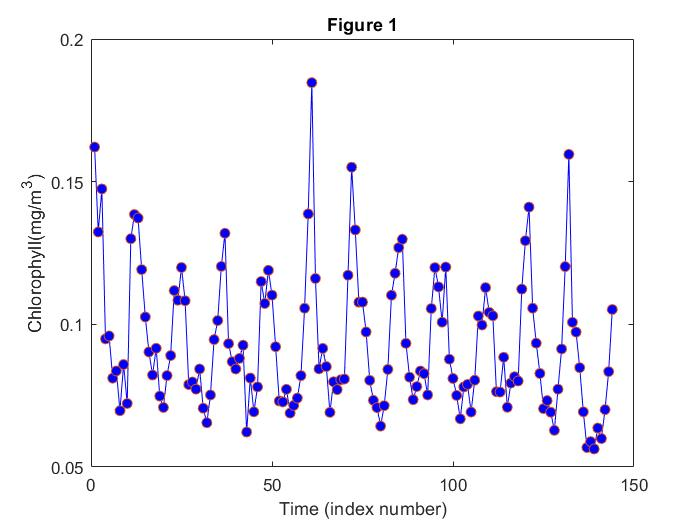
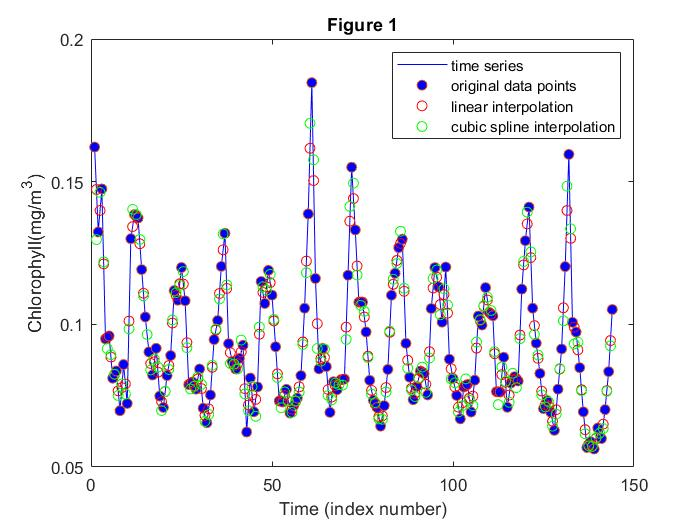
fixed discrepancy that printed interpolated points on different figure.

diff --git a/final_pt2/finalpt2_script.m b/final_pt2/finalpt2_script.m
@@ -16,43 +16,37 @@ plot(t,y,'o','markerfacecolor','b');
 
 
 %estimate chlorophyll at intermediate times by linear interploation and
-%plot
-figure;
+%plot using red open circles
 ti=1.5:1:143.5;
 yi=interp1(t,y,ti);
-plot(ti,yi,'o','markerfacecolor','r');
-xlabel('Time (index number)');
-ylabel('Chlorophyll(mg/m^3)');
-title('Figure 2');
+hold on;
+scatter(ti,yi,'r');
 
 %repeat using spline interpolation and plot in same figure using green open
 %circles
 si=spline(t,y,ti);
 hold on;
-plot(ti,si,'o','markerfacecolor','g');
-legend('linear interpolation','cubic spline interpolation');
+scatter(ti,si,'g');
+legend('time series','original data points','linear interpolation','cubic spline interpolation');
 
 %repeat original plot with line width equal to 2
 figure;
 plot(t,y,'linewidth',[2]);
-xlabel('Time (index number)');
-ylabel('Chlorophyll(mg/m^3)');
-title('Figure 3');
 
 %perform a 3 point running mean
 ys3=movmean(y,3);
 
-%plot the result as a red soline line with line width equal to 2
+%plot the result as a red solid line with line width equal to 2
 hold on;
 plot(t,ys3,'r','linewidth',[2]);
 
 %perform a 7 point running mean
 ys7=movmean(y,7);
 
-%plot the result as a green solid line
+%plot the result as a green solid line with line width equal to 2
 hold on;
 plot(t,ys7,'g','linewidth',[2]);
 xlabel('Time (index number)');
 ylabel('Chlorophyll(mg/m^3)');
-title('Figure 3');
+title('Figure 2');
 legend('No smoothing','3 point moving average','7 point moving average');
